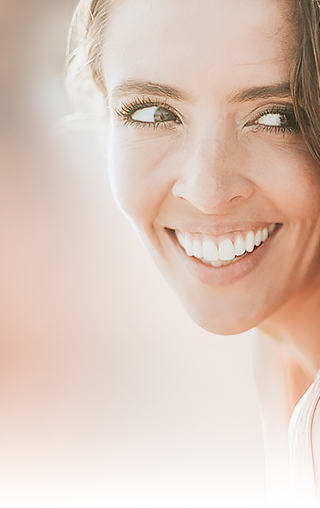
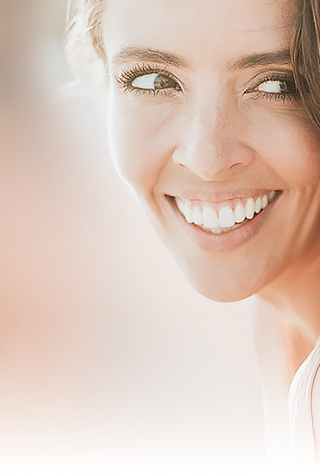
.

Changed region(s): [[0.125, 0.0, 1.0, 0.8253], [0.6562, 0.2358, 0.6875, 0.2947], [0.5312, 0.5305, 0.5625, 0.56]]

diff --git a/css/build.css b/css/build.css
@@ -2173,11 +2173,11 @@ body {
       height: 300px;
       bottom: -1px;
       left: 0;
-      background: -moz-linear-gradient(top, rgba(255, 255, 255, 0) 6%, white 74%);
+      background: -moz-linear-gradient(top, rgba(255, 255, 255, 0) 52%, rgba(255, 255, 255, 0.5) 77%, white 90%);
       /* FF3.6-15 */
-      background: -webkit-linear-gradient(top, rgba(255, 255, 255, 0) 6%, white 74%);
+      background: -webkit-linear-gradient(top, rgba(255, 255, 255, 0) 52%, rgba(255, 255, 255, 0.5) 77%, white 90%);
       /* Chrome10-25,Safari5.1-6 */
-      background: linear-gradient(to bottom, rgba(255, 255, 255, 0) 6%, white 74%);
+      background: linear-gradient(to bottom, rgba(255, 255, 255, 0) 52%, rgba(255, 255, 255, 0.5) 77%, white 90%);
       /* W3C, IE10+, FF16+, Chrome26+, Opera12+, Safari7+ */ }
     @media (max-width: 1199px) {
       .text-section.promo {
@@ -2448,7 +2448,7 @@ body {
       background: white;
       z-index: 0;
       transform: translateX(0%);
-      transition: all .9s;
+      transition: all 2s;
       -webkit-clip-path: polygon(0 0, 100% 0, 84% 100%, 0% 100%);
       clip-path: polygon(0 0, 100% 0, 84% 100%, 0% 100%); }
     .sale__item:hover {
@@ -2467,7 +2467,7 @@ body {
       line-height: 1.333;
       font-weight: 300;
       letter-spacing: 2.5px;
-      transition: all .2s; }
+      transition: all 1.8s; }
     .sale__item .label {
       position: relative;
       font-size: 8px;
